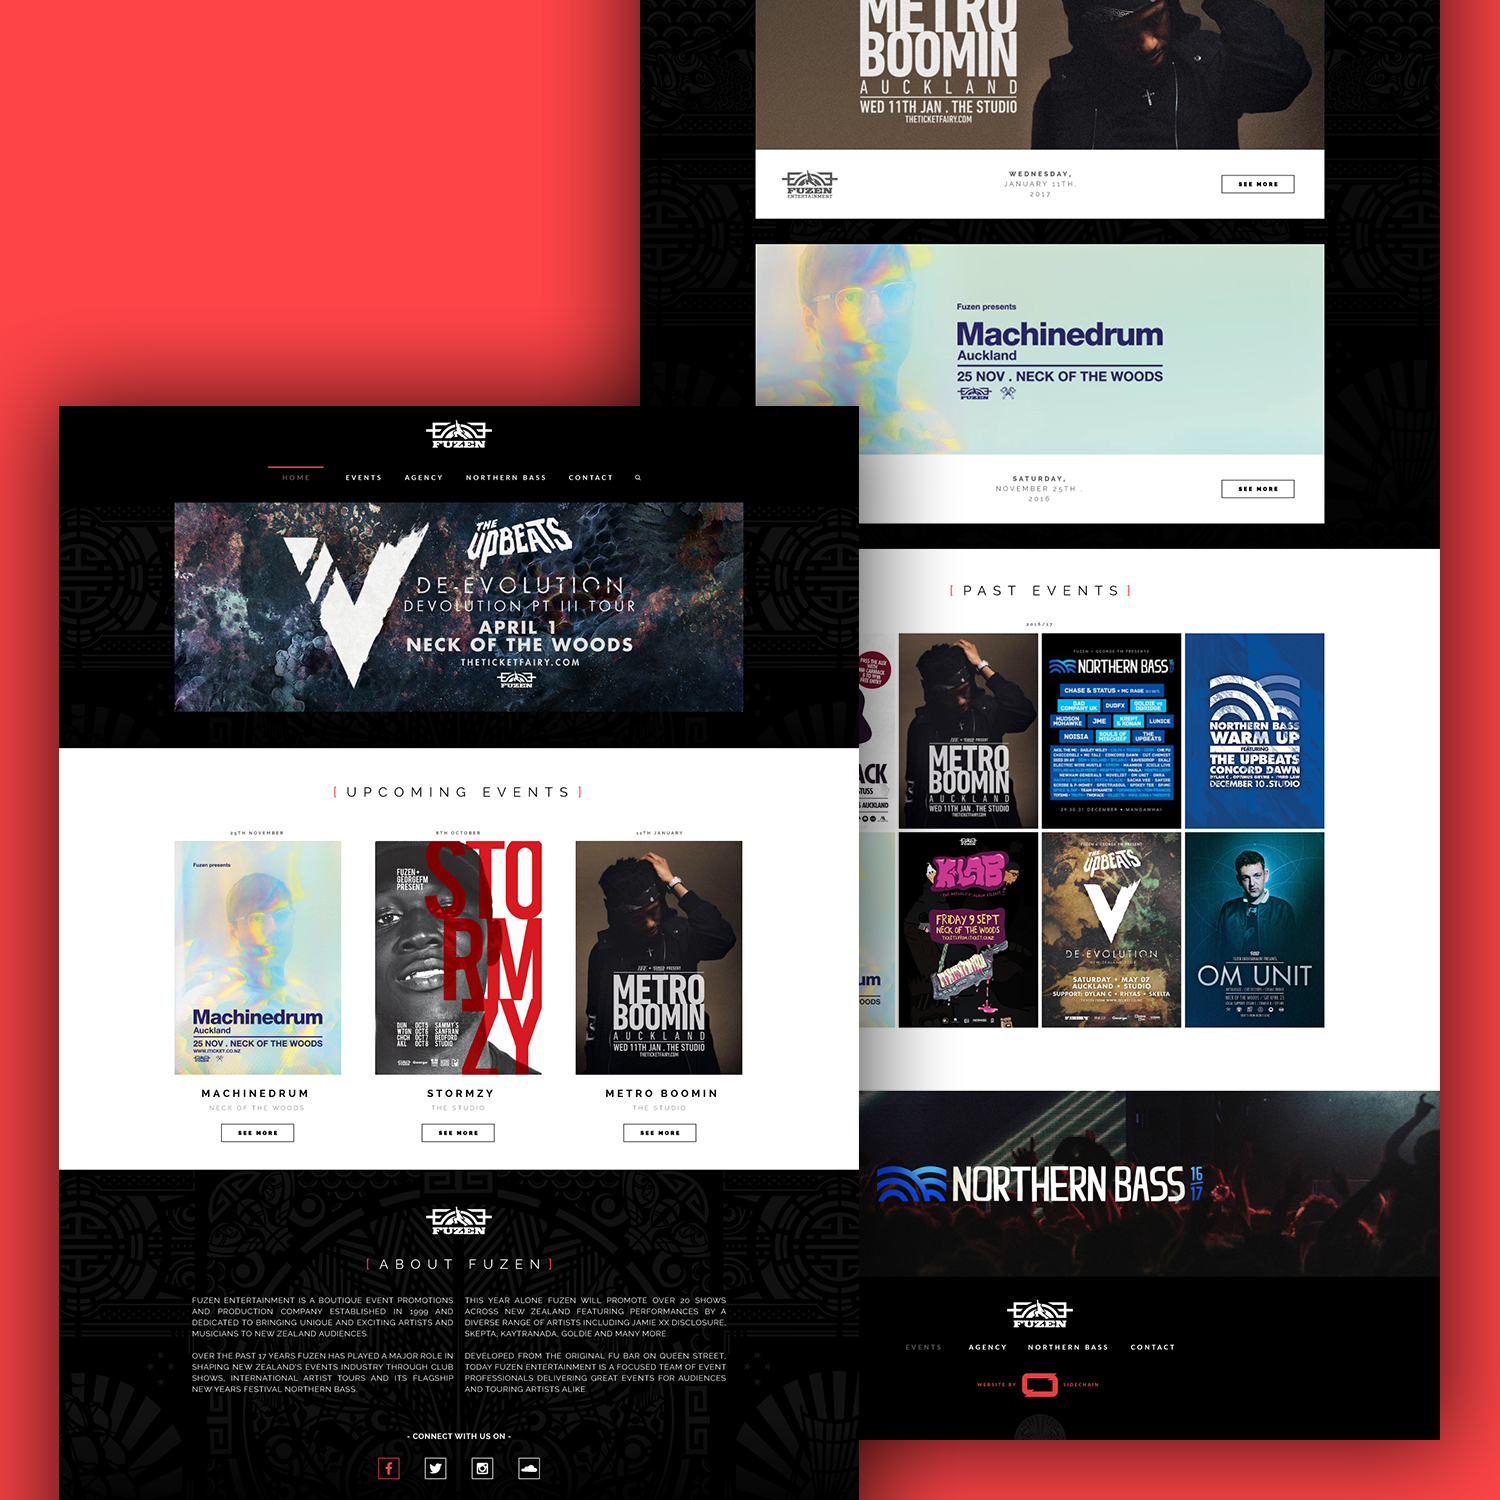
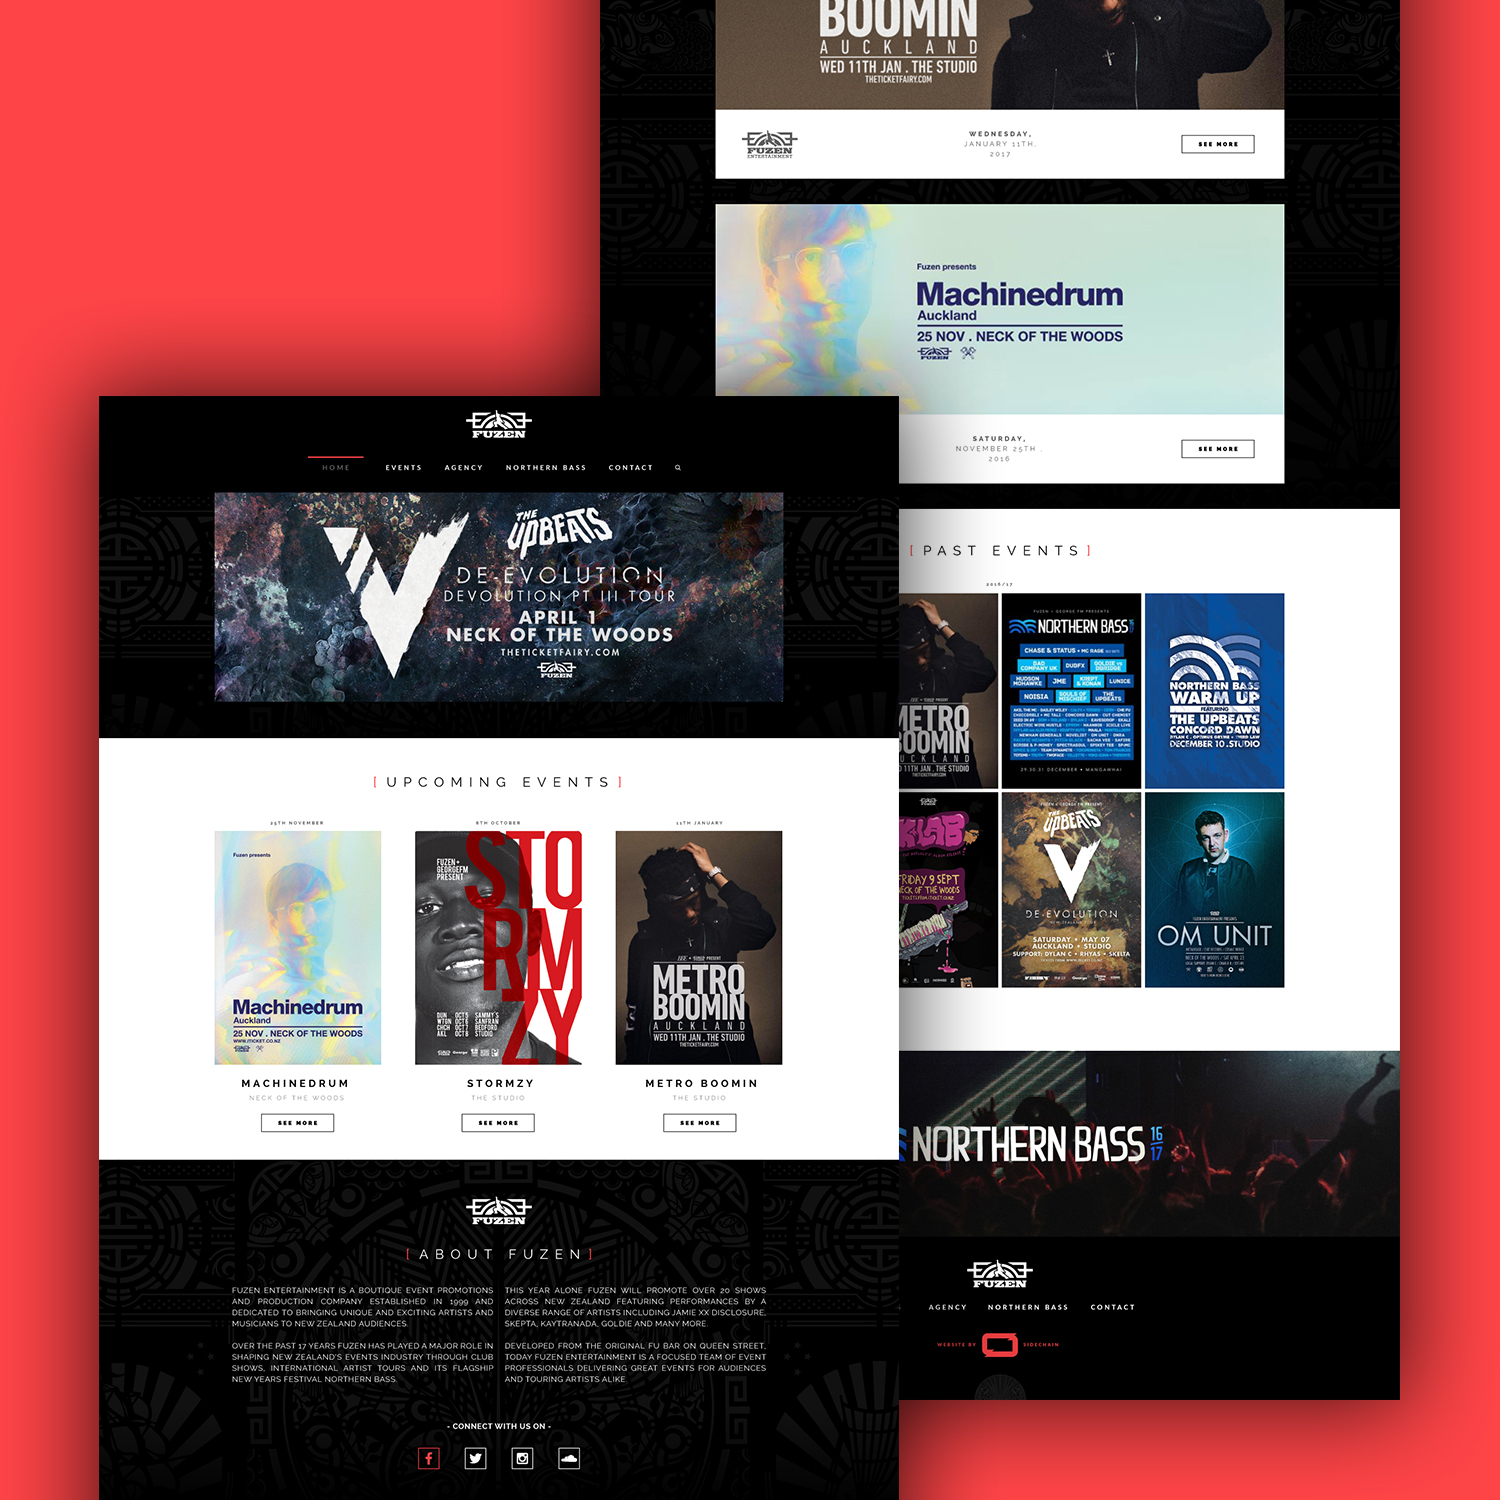
new commit

diff --git a/public/styles/site.css b/public/styles/site.css
@@ -5829,7 +5829,7 @@ button.close {
 
 body {
   background-color: #fff !important;
-  font-family: 'Open Sans', sans-serif;
+  font-family: aktiv-grotesk, sans-serif;
   -webkit-font-smoothing: antialiased;
   text-rendering: optimizeLegibility; }
 
@@ -5912,7 +5912,6 @@ a:active, a:hover, a:focus {
 
 /* Navbar Scrolling Function */
 .scrolled {
-  background-color: #f2f2f2;
   transition: ease all .4s;
   -webkit-transition: ease all .4s;
   -moz-transition: ease all .4s; }
@@ -6411,10 +6410,10 @@ svg.client-logo {
 }*/
 .navbar-default .navbar-toggle {
   border-color: #ddd;
-  display: block !important;
-  position: absolute;
-  right: 0;
-  top: 0; }
+  display: inline-block !important;
+  top: 0;
+  float: none;
+  padding: 9px 0; }
 
 .navbar-nav {
   margin: 0; }
@@ -6497,6 +6496,9 @@ svg.client-logo {
   bottom: 0;
   right: 0; }
 
+.navbar-default.scrolled {
+  background-color: rgba(255, 255, 255, 0.9); }
+
 .row.title-row {
   padding: 0 15px;
   max-width: 1170px;
@@ -6504,6 +6506,7 @@ svg.client-logo {
   margin-right: auto; }
   .row.title-row h5 {
     opacity: 0;
+    text-align: center;
     font-family: industry, sans-serif;
     font-weight: 800;
     letter-spacing: .3rem;
@@ -6705,10 +6708,12 @@ svg.client-logo {
 .img-container {
   margin-bottom: 10rem; }
   .img-container img {
-    margin-bottom: 4rem;
+    margin-bottom: 2rem;
     max-width: 100%; }
   .img-container .half, .img-container .full {
     padding: 0; }
+  .img-container .half {
+    width: 50%; }
   .img-container .third {
     padding: 0; }
 

diff --git a/public/styles/site/_navbar.scss b/public/styles/site/_navbar.scss
@@ -37,10 +37,10 @@ $black: #000;
 
 .navbar-default .navbar-toggle {
     border-color: #ddd;
-    display: block !important;
-    position: absolute;
-    right: 0;
+    display: inline-block !important;
     top: 0;
+    float:none;
+    padding: 9px 0;
 }
 
 .navbar-nav{
@@ -149,7 +149,9 @@ $black: #000;
 
 
 // Page Title for Header Animation
-
+.navbar-default.scrolled{
+    background-color:rgba(255, 255, 255, 0.9);
+}
 .row.title-row {
     padding: 0 15px;
     max-width: 1170px;
@@ -157,6 +159,7 @@ $black: #000;
     margin-right: auto;
     h5{
         opacity:0;
+        text-align:center;
         font-family: industry, sans-serif;
         font-weight: 800;
         letter-spacing:.3rem;

diff --git a/public/styles/site/_variables.scss b/public/styles/site/_variables.scss
@@ -50,7 +50,7 @@ $black: #000;
 
 body {
     background-color: #fff !important;
-    font-family: 'Open Sans', sans-serif;
+    font-family: $font-body;
     -webkit-font-smoothing: antialiased;
     text-rendering: optimizeLegibility;
 }
@@ -137,7 +137,6 @@ a:active, a:hover, a:focus {
 
 /* Navbar Scrolling Function */
 .scrolled{
-  	background-color:#f2f2f2;
   	transition:ease all .4s;
   	-webkit-transition:ease all .4s;
   	-moz-transition:ease all .4s;

diff --git a/public/styles/site/_project.scss b/public/styles/site/_project.scss
@@ -78,11 +78,14 @@ $black: #000;
 .img-container{
 	margin-bottom:10rem;
 	img{
-		margin-bottom:4rem;
+		margin-bottom:2rem;
 		max-width:100%;
 	}
 	.half, .full{
 		padding:0;
+	}
+	.half{
+		width:50%;
 	}
 	.third{
 		padding:0;
